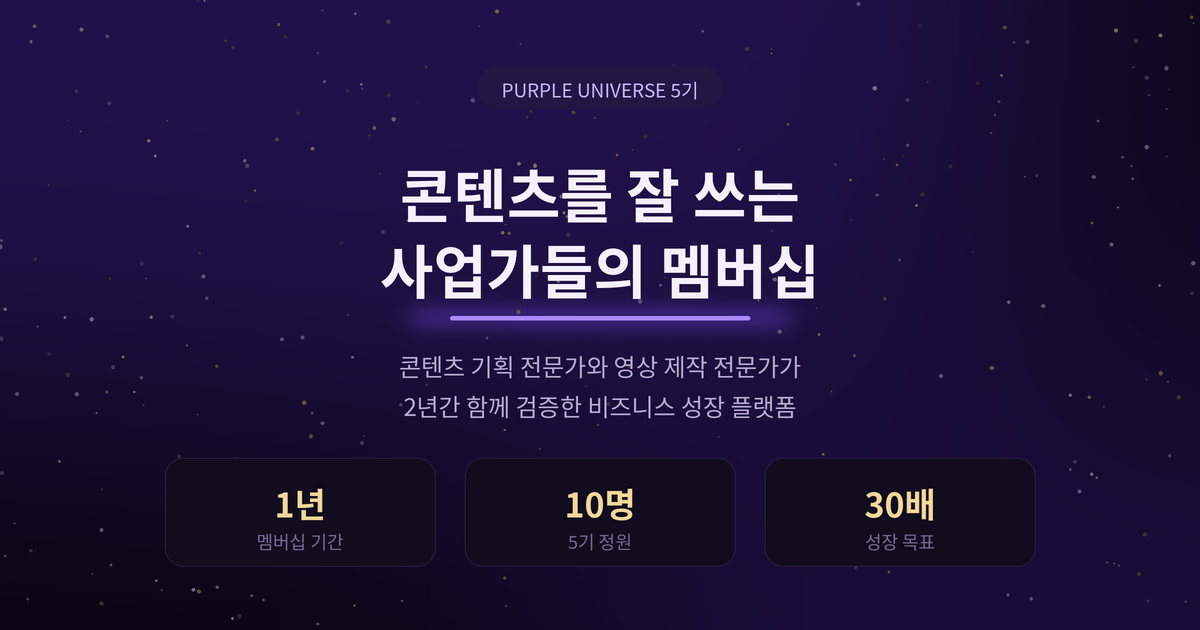
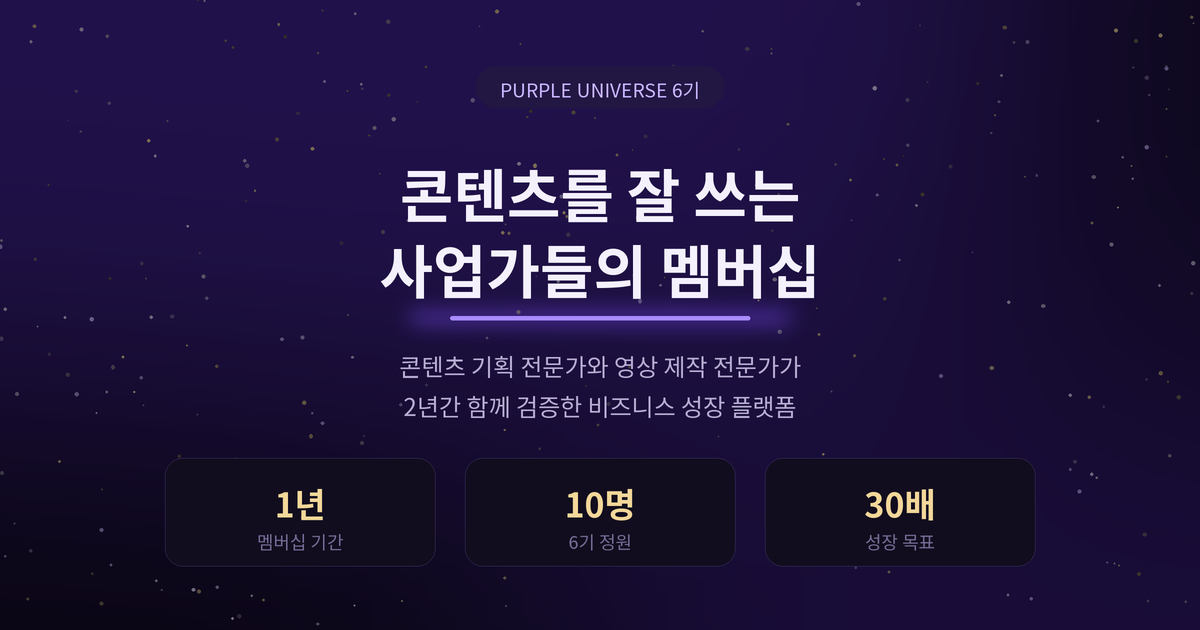
6기 모집으로 전환: 5기→6기 문구·공유 이미지, 마감 11/25, 기간 2026.11–2027.11, 가격 안내 7기·8기

diff --git a/index.html b/index.html
@@ -4,21 +4,21 @@
 <meta charset="UTF-8">
 <meta name="viewport" content="width=device-width, initial-scale=1.0, viewport-fit=cover">
 <title>퍼플 유니버스 — 콘텐츠를 잘 쓰는 사업가들의 멤버십</title>
-<meta name="description" content="콘텐츠 기획 전문가와 영상 제작 전문가가 2년간 검증한 콘텐츠 성장 시스템. 퍼플 유니버스 5기, 10명 한정 사전 신청 접수.">
+<meta name="description" content="콘텐츠 기획 전문가와 영상 제작 전문가가 2년간 검증한 콘텐츠 성장 시스템. 퍼플 유니버스 6기, 10명 한정 사전 신청 접수.">
[1 lines of base64/hex data omitted]
 <meta property="og:type" content="website">
 <meta property="og:site_name" content="퍼플 유니버스">
 <meta property="og:locale" content="ko_KR">
-<meta property="og:title" content="퍼플 유니버스 5기 — 콘텐츠를 잘 쓰는 사업가들의 멤버십">
-<meta property="og:description" content="콘텐츠 기획 전문가와 영상 제작 전문가가 2년간 함께 검증한 비즈니스 성장 플랫폼. 5기 정원 10명, 선착순 마감.">
+<meta property="og:title" content="퍼플 유니버스 6기 — 콘텐츠를 잘 쓰는 사업가들의 멤버십">
+<meta property="og:description" content="콘텐츠 기획 전문가와 영상 제작 전문가가 2년간 함께 검증한 비즈니스 성장 플랫폼. 6기 정원 10명, 선착순 마감.">
 <meta property="og:url" content="https://purpleuniverse.net/">
 <meta property="og:image" content="https://purpleuniverse.net/og-image.png">
 <meta property="og:image:width" content="1200">
 <meta property="og:image:height" content="630">
-<meta property="og:image:alt" content="퍼플 유니버스 5기 — 콘텐츠를 잘 쓰는 사업가들의 멤버십">
+<meta property="og:image:alt" content="퍼플 유니버스 6기 — 콘텐츠를 잘 쓰는 사업가들의 멤버십">
 <meta name="twitter:card" content="summary_large_image">
-<meta name="twitter:title" content="퍼플 유니버스 5기 — 콘텐츠를 잘 쓰는 사업가들의 멤버십">
-<meta name="twitter:description" content="콘텐츠 기획 전문가와 영상 제작 전문가가 2년간 함께 검증한 비즈니스 성장 플랫폼. 5기 정원 10명, 선착순 마감.">
+<meta name="twitter:title" content="퍼플 유니버스 6기 — 콘텐츠를 잘 쓰는 사업가들의 멤버십">
+<meta name="twitter:description" content="콘텐츠 기획 전문가와 영상 제작 전문가가 2년간 함께 검증한 비즈니스 성장 플랫폼. 6기 정원 10명, 선착순 마감.">
 <meta name="twitter:image" content="https://purpleuniverse.net/og-image.png">
 <link rel="canonical" href="https://purpleuniverse.net/">
 <link rel="preconnect" href="https://fonts.googleapis.com">
@@ -1472,8 +1472,8 @@
 
       <div class="price-card reveal">
         <span class="price-badge">얼리버드 할인</span>
-        <h3>퍼플 유니버스 5기</h3>
-        <div class="price-period">멤버쉽 기간 · 2026.10 – 2027.10 (1년)</div>
+        <h3>퍼플 유니버스 6기</h3>
+        <div class="price-period">멤버쉽 기간 · 2026.11 – 2027.11 (1년)</div>
         <div class="price-hero-label">12개월 할부 시</div>
         <div class="price-hero-amount">월 17만 원</div>
         <div class="price-vat">부가세 별도</div>
@@ -1481,7 +1481,7 @@
           <span class="price-old">300만 원</span>
           <span class="price-new">200만 원</span>
         </div>
-        <div class="price-note">6기 250만 원 · 7기 300만 원</div>
+        <div class="price-note">7기 250만 원 · 8기 300만 원</div>
         <div class="price-tagline">지금 합류하는 게 가장 빠른 선택입니다</div>
         <ul class="price-list">
           <li><svg viewBox="0 0 24 24" fill="none" stroke="currentColor" stroke-width="2"><path d="M20 6L9 17l-5-5"/></svg> 100% 비즈니스 확장, 단순 친목 X</li>
@@ -1493,8 +1493,8 @@
           <li><svg viewBox="0 0 24 24" fill="none" stroke="currentColor" stroke-width="2"><path d="M20 6L9 17l-5-5"/></svg> 퍼플 유니버스 확장에 따른 다양한 B2B 기회</li>
           <li><svg viewBox="0 0 24 24" fill="none" stroke="currentColor" stroke-width="2"><path d="M20 6L9 17l-5-5"/></svg> 왕초보도 OK · 눈높이 맞춘 코치진 배치</li>
         </ul>
-        <a href="/apply" class="btn btn-primary">5기 합류하기</a>
-        <p class="price-cap">5기 정원 단 10명 · 선착순 마감</p>
+        <a href="/apply" class="btn btn-primary">6기 합류하기</a>
+        <p class="price-cap">6기 정원 단 10명 · 선착순 마감</p>
       </div>
 
       <div class="compare-side right">
@@ -1917,8 +1917,8 @@ document.querySelectorAll('.faq-item').forEach(item => {
 <!-- STICKY BOTTOM CTA -->
 <div class="sticky-cta">
   <div class="sticky-cta-inner">
-    <span class="sticky-cta-text">퍼플 유니버스 멤버쉽 5기, 지금 참여하세요!</span>
-    <a href="/apply" class="btn btn-primary">5기 합류하기</a>
+    <span class="sticky-cta-text">퍼플 유니버스 멤버쉽 6기, 지금 참여하세요!</span>
+    <a href="/apply" class="btn btn-primary">6기 합류하기</a>
   </div>
 </div>
 

diff --git a/apply.html b/apply.html
@@ -3,20 +3,20 @@
 <head>
 <meta charset="UTF-8">
 <meta name="viewport" content="width=device-width, initial-scale=1.0, viewport-fit=cover">
-<title>5기 사전 신청 — 퍼플 유니버스</title>
-<meta name="description" content="퍼플 유니버스 멤버십 5기 사전 신청. 각 기수 정원 10명, 선착순 모집.">
+<title>6기 사전 신청 — 퍼플 유니버스</title>
+<meta name="description" content="퍼플 유니버스 멤버십 6기 사전 신청. 각 기수 정원 10명, 선착순 모집.">
 <meta name="robots" content="noindex, nofollow">
 <meta property="og:type" content="website">
 <meta property="og:site_name" content="퍼플 유니버스">
 <meta property="og:locale" content="ko_KR">
-<meta property="og:title" content="5기 사전 신청 — 퍼플 유니버스">
+<meta property="og:title" content="6기 사전 신청 — 퍼플 유니버스">
 <meta property="og:description" content="콘텐츠를 잘 쓰는 사업가들의 멤버십. 정원 10명, 선착순 모집.">
 <meta property="og:url" content="https://purpleuniverse.net/apply">
 <meta property="og:image" content="https://purpleuniverse.net/og-image.png">
 <meta property="og:image:width" content="1200">
 <meta property="og:image:height" content="630">
 <meta name="twitter:card" content="summary_large_image">
-<meta name="twitter:title" content="5기 사전 신청 — 퍼플 유니버스">
+<meta name="twitter:title" content="6기 사전 신청 — 퍼플 유니버스">
 <meta name="twitter:image" content="https://purpleuniverse.net/og-image.png">
 <link rel="canonical" href="https://purpleuniverse.net/apply">
 <link rel="preconnect" href="https://fonts.googleapis.com">
@@ -212,7 +212,7 @@
   <section class="a-hero">
     <div class="wrap">
       <span class="eyebrow">MEMBERSHIP APPLICATION</span>
-      <h1>퍼플 유니버스 5기<br>사전 신청</h1>
+      <h1>퍼플 유니버스 6기<br>사전 신청</h1>
       <p>1년의 로드맵을 함께 만들기 위한 설문입니다.<br>여유 있게 시간을 두고 구체적으로 작성해주세요.</p>
     </div>
   </section>
@@ -223,7 +223,7 @@
       <ol>
         <li>
           각 기수별로 <b>선착순 10명</b>을 모집합니다.
-          <span class="sub">5기 모집 마감 — 2026년 10월 25일</span>
+          <span class="sub">6기 모집 마감 — 2026년 11월 25일</span>
         </li>
         <li>
           퍼플 유니버스는 사업가를 트레이닝하는 과정이라, <b>사업자를 내신 분</b>이 신청하시면 승인 확률이 높습니다.
@@ -351,7 +351,7 @@
 
       <!-- 동의 -->
       <div class="agree-box field" data-req data-check="agree">
-        <p>작성해주신 내용은 <b style="color:var(--text-dim);">5기 선발 심사와 1년 로드맵 설계</b>에만 사용하며, 운영진 외에는 공개하지 않습니다. 선발 여부와 무관하게 모집이 끝난 뒤 6개월이 지나면 파기합니다.</p>
+        <p>작성해주신 내용은 <b style="color:var(--text-dim);">6기 선발 심사와 1년 로드맵 설계</b>에만 사용하며, 운영진 외에는 공개하지 않습니다. 선발 여부와 무관하게 모집이 끝난 뒤 6개월이 지나면 파기합니다.</p>
         <label class="opt"><input type="checkbox" name="agree" value="동의"><span>개인정보 수집·이용에 동의합니다.<span class="req">*</span></span></label>
         <p class="err">동의가 필요합니다.</p>
       </div>

diff --git a/members.html b/members.html
@@ -14,7 +14,7 @@
 <meta property="og:image" content="https://purpleuniverse.net/og-image.png">
 <meta property="og:image:width" content="1200">
 <meta property="og:image:height" content="630">
-<meta property="og:image:alt" content="퍼플 유니버스 5기 — 콘텐츠를 잘 쓰는 사업가들의 멤버십">
+<meta property="og:image:alt" content="퍼플 유니버스 6기 — 콘텐츠를 잘 쓰는 사업가들의 멤버십">
 <meta name="twitter:card" content="summary_large_image">
 <meta name="twitter:title" content="퍼플 유니버스 멤버십 전용">
 <meta name="twitter:description" content="퍼플 유니버스 멤버 전용 페이지입니다.">
@@ -705,7 +705,7 @@
         <p class="lg-hint">처음이시네요! 가입 신청을 남겨주시면<br>확인 후 <b>승인 문자</b>를 보내드려요.</p>
         <input type="text" id="lgName" placeholder="이름" maxlength="20" autocomplete="name">
         <input type="tel" id="lgApplyPhone" placeholder="휴대폰 번호" inputmode="numeric" autocomplete="tel">
-        <input type="text" id="lgNote" placeholder="한마디 (선택) · 예: 5기 김퍼플" maxlength="200">
+        <input type="text" id="lgNote" placeholder="한마디 (선택) · 예: 6기 김퍼플" maxlength="200">
         <button class="btn btn-primary" id="lgApplyBtn" type="button">가입 신청하기</button>
         <p class="lg-sub"><button class="peek-link" id="lgBack2" type="button">← 로그인으로</button></p>
       </div>

diff --git a/review-yy7cw90873.html b/review-yy7cw90873.html
@@ -4,7 +4,7 @@
 <meta charset="UTF-8">
 <meta name="viewport" content="width=device-width, initial-scale=1.0">
 <meta name="robots" content="noindex, nofollow">
-<title>5기 신청서 심사 — 퍼플 유니버스</title>
+<title>6기 신청서 심사 — 퍼플 유니버스</title>
 <link rel="preconnect" href="https://fonts.googleapis.com">
 <link rel="preconnect" href="https://fonts.gstatic.com" crossorigin>
 <link href="https://fonts.googleapis.com/css2?family=IBM+Plex+Sans+KR:wght@400;500;600;700&family=Space+Grotesk:wght@500;600;700&display=swap" rel="stylesheet">
@@ -176,7 +176,7 @@
     <div class="wrap h-row">
       <div>
         <span class="eyebrow">REVIEW</span>
-        <h1>5기 신청서 심사</h1>
+        <h1>6기 신청서 심사</h1>
       </div>
       <div style="display:flex; gap:9px; flex-wrap:wrap;">
         <button class="btn btn-ghost btn-sm" id="reload" type="button">새로고침</button>

diff --git a/notes.html b/notes.html
@@ -14,7 +14,7 @@
 <meta property="og:image" content="https://purpleuniverse.net/og-image.png">
 <meta property="og:image:width" content="1200">
 <meta property="og:image:height" content="630">
-<meta property="og:image:alt" content="퍼플 유니버스 5기 — 콘텐츠를 잘 쓰는 사업가들의 멤버십">
+<meta property="og:image:alt" content="퍼플 유니버스 6기 — 콘텐츠를 잘 쓰는 사업가들의 멤버십">
 <meta name="twitter:card" content="summary_large_image">
 <meta name="twitter:title" content="30X 퍼플 노트 — 퍼플 유니버스">
 <meta name="twitter:description" content="당신의 비즈니스 성장을 위한 지식 보관소. 웨비나·LIVE 녹화본, 마케팅 뉴스클리핑, 비즈니스 인사이트를 한곳에.">

diff --git a/webinar.html b/webinar.html
@@ -588,7 +588,7 @@
 <script>document.write('<script src="/webinars-data.js?v=' + Math.floor(Date.now() / 60000) + '"><\/script>');</script>
 <script>
 const WEBINARS = Array.isArray(window.WEBINARS) ? window.WEBINARS : [];
-/* 신청이 저장되는 곳 — 5기 신청서와 같은 구글 시트 주소 */
+/* 신청이 저장되는 곳 — 멤버십 신청서와 같은 구글 시트 주소 */
 const ENDPOINT = "https://script.google.com/macros/s/AKfycbwDzbGSI5X9JnZUXxdXcoDb7UVJRm4jUJ73qzACFs2hzzZDsNqGTtyiD9vEzhxB_-EP/exec";
 
 const SECTIONS = [
